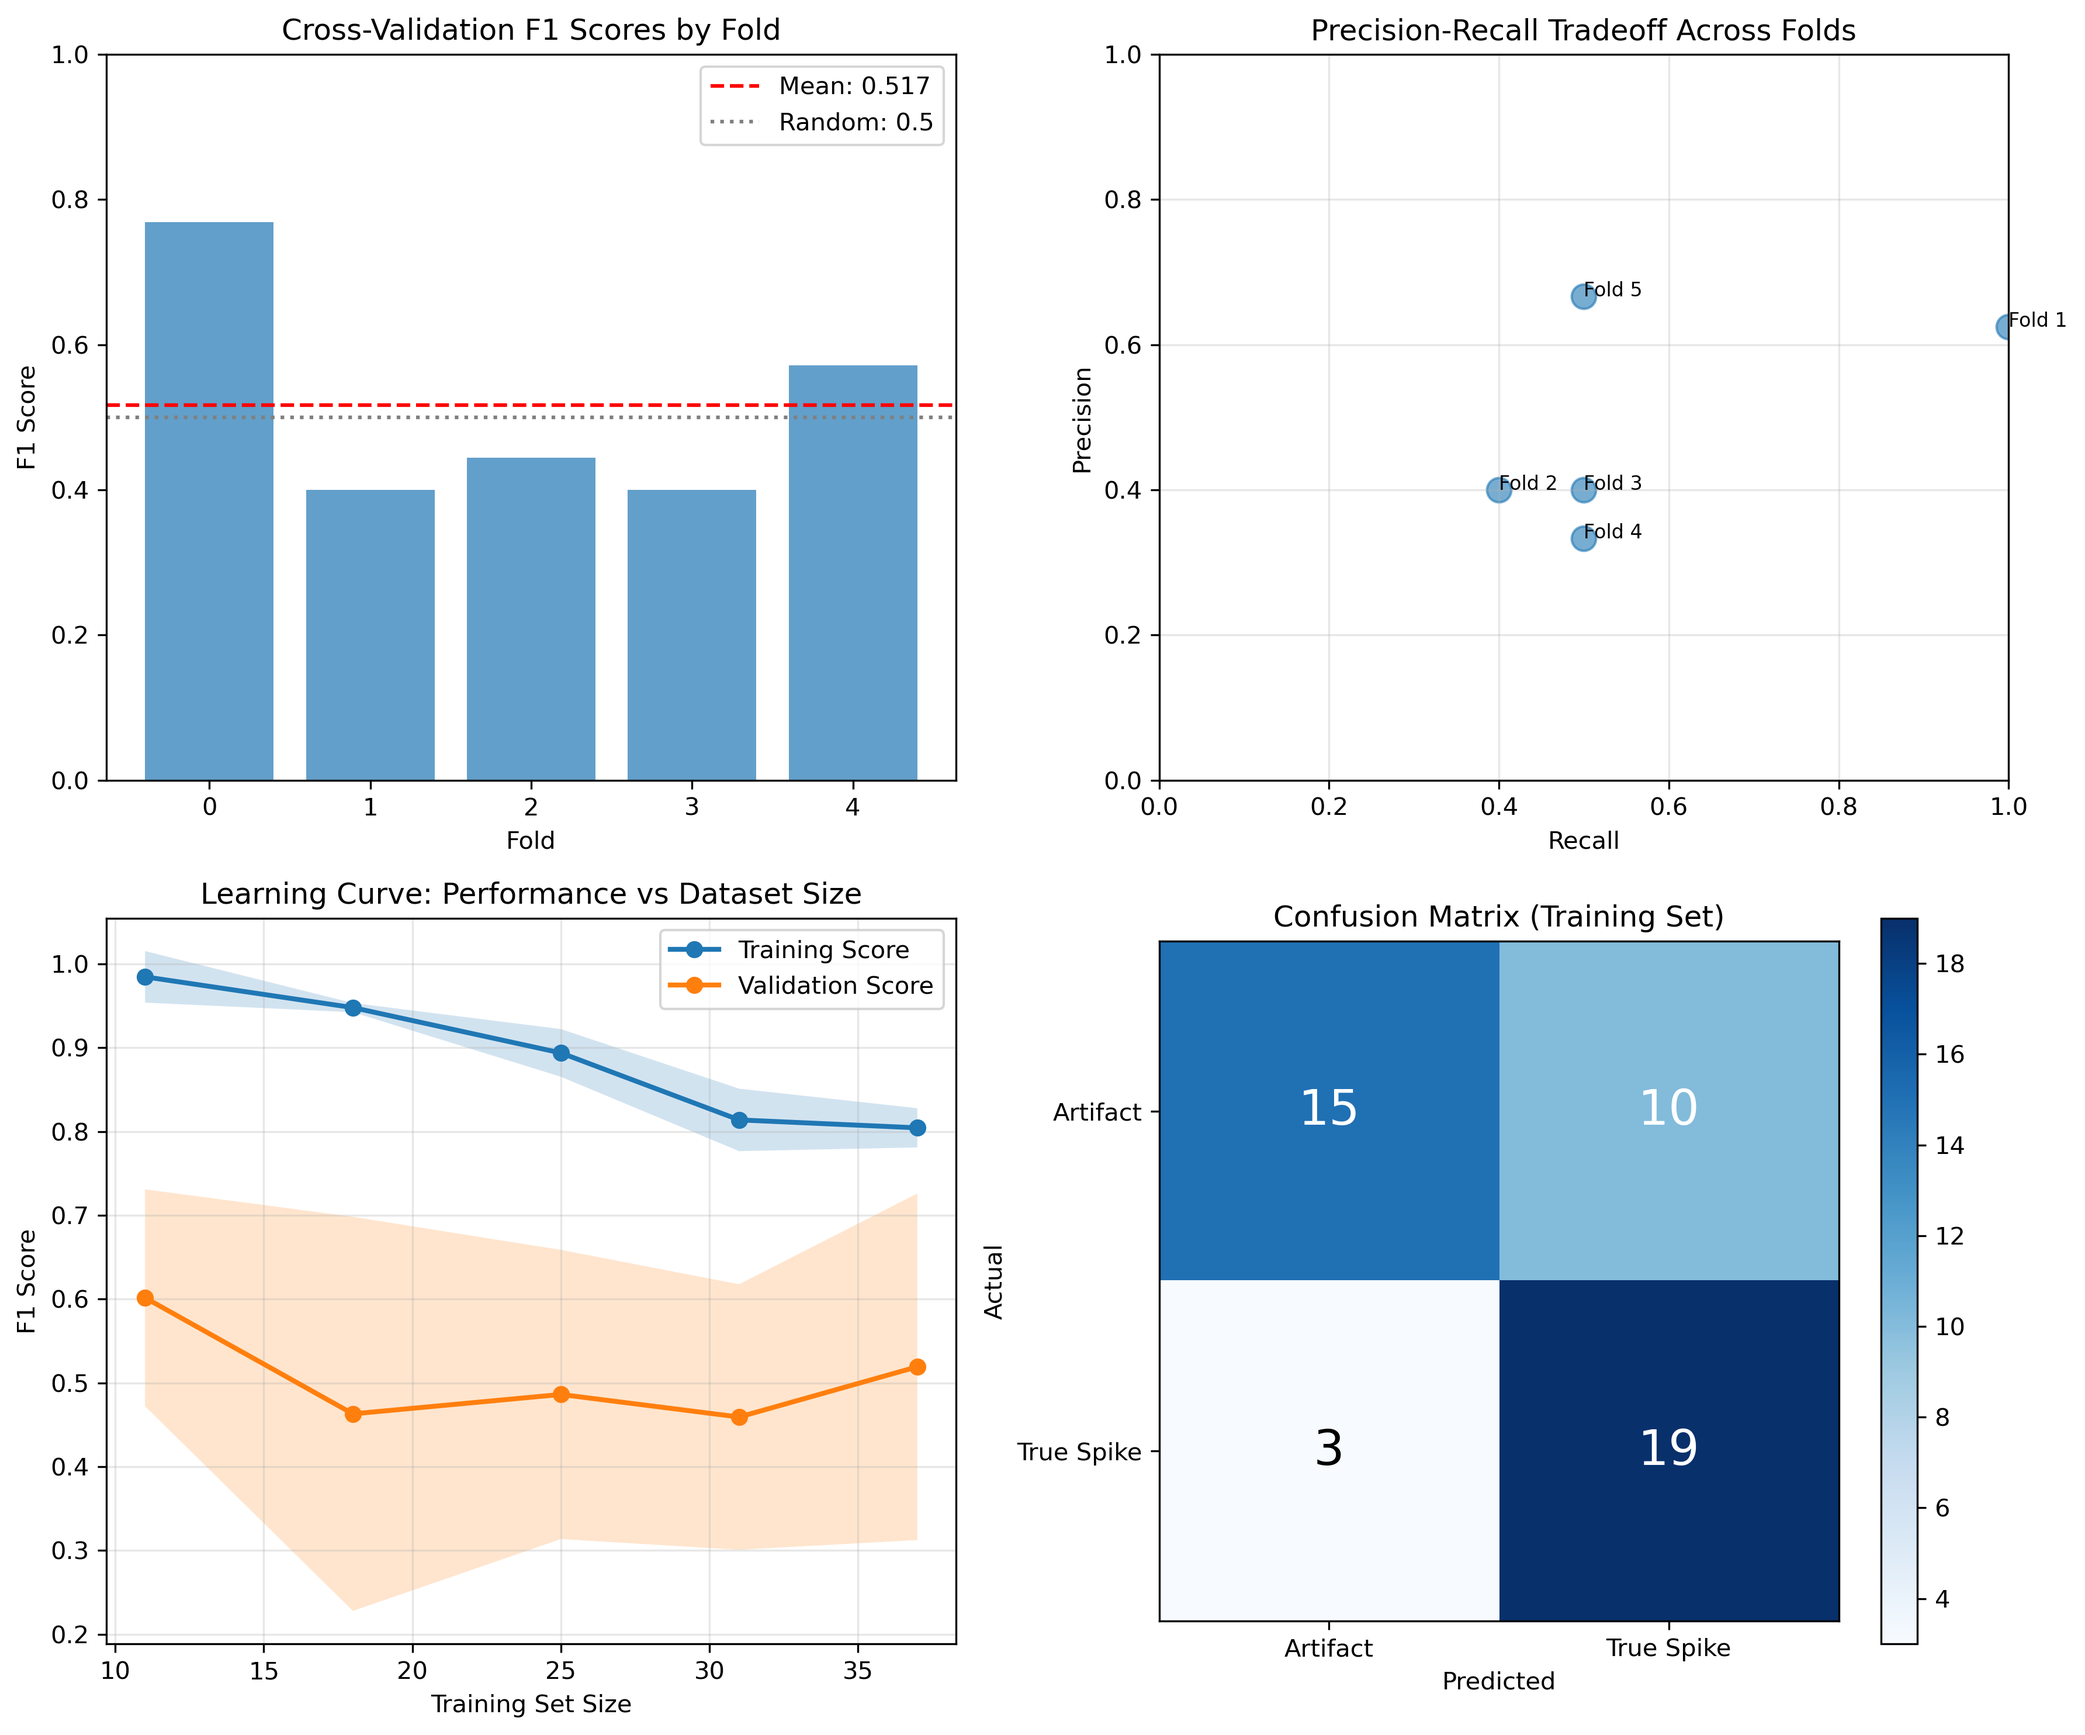
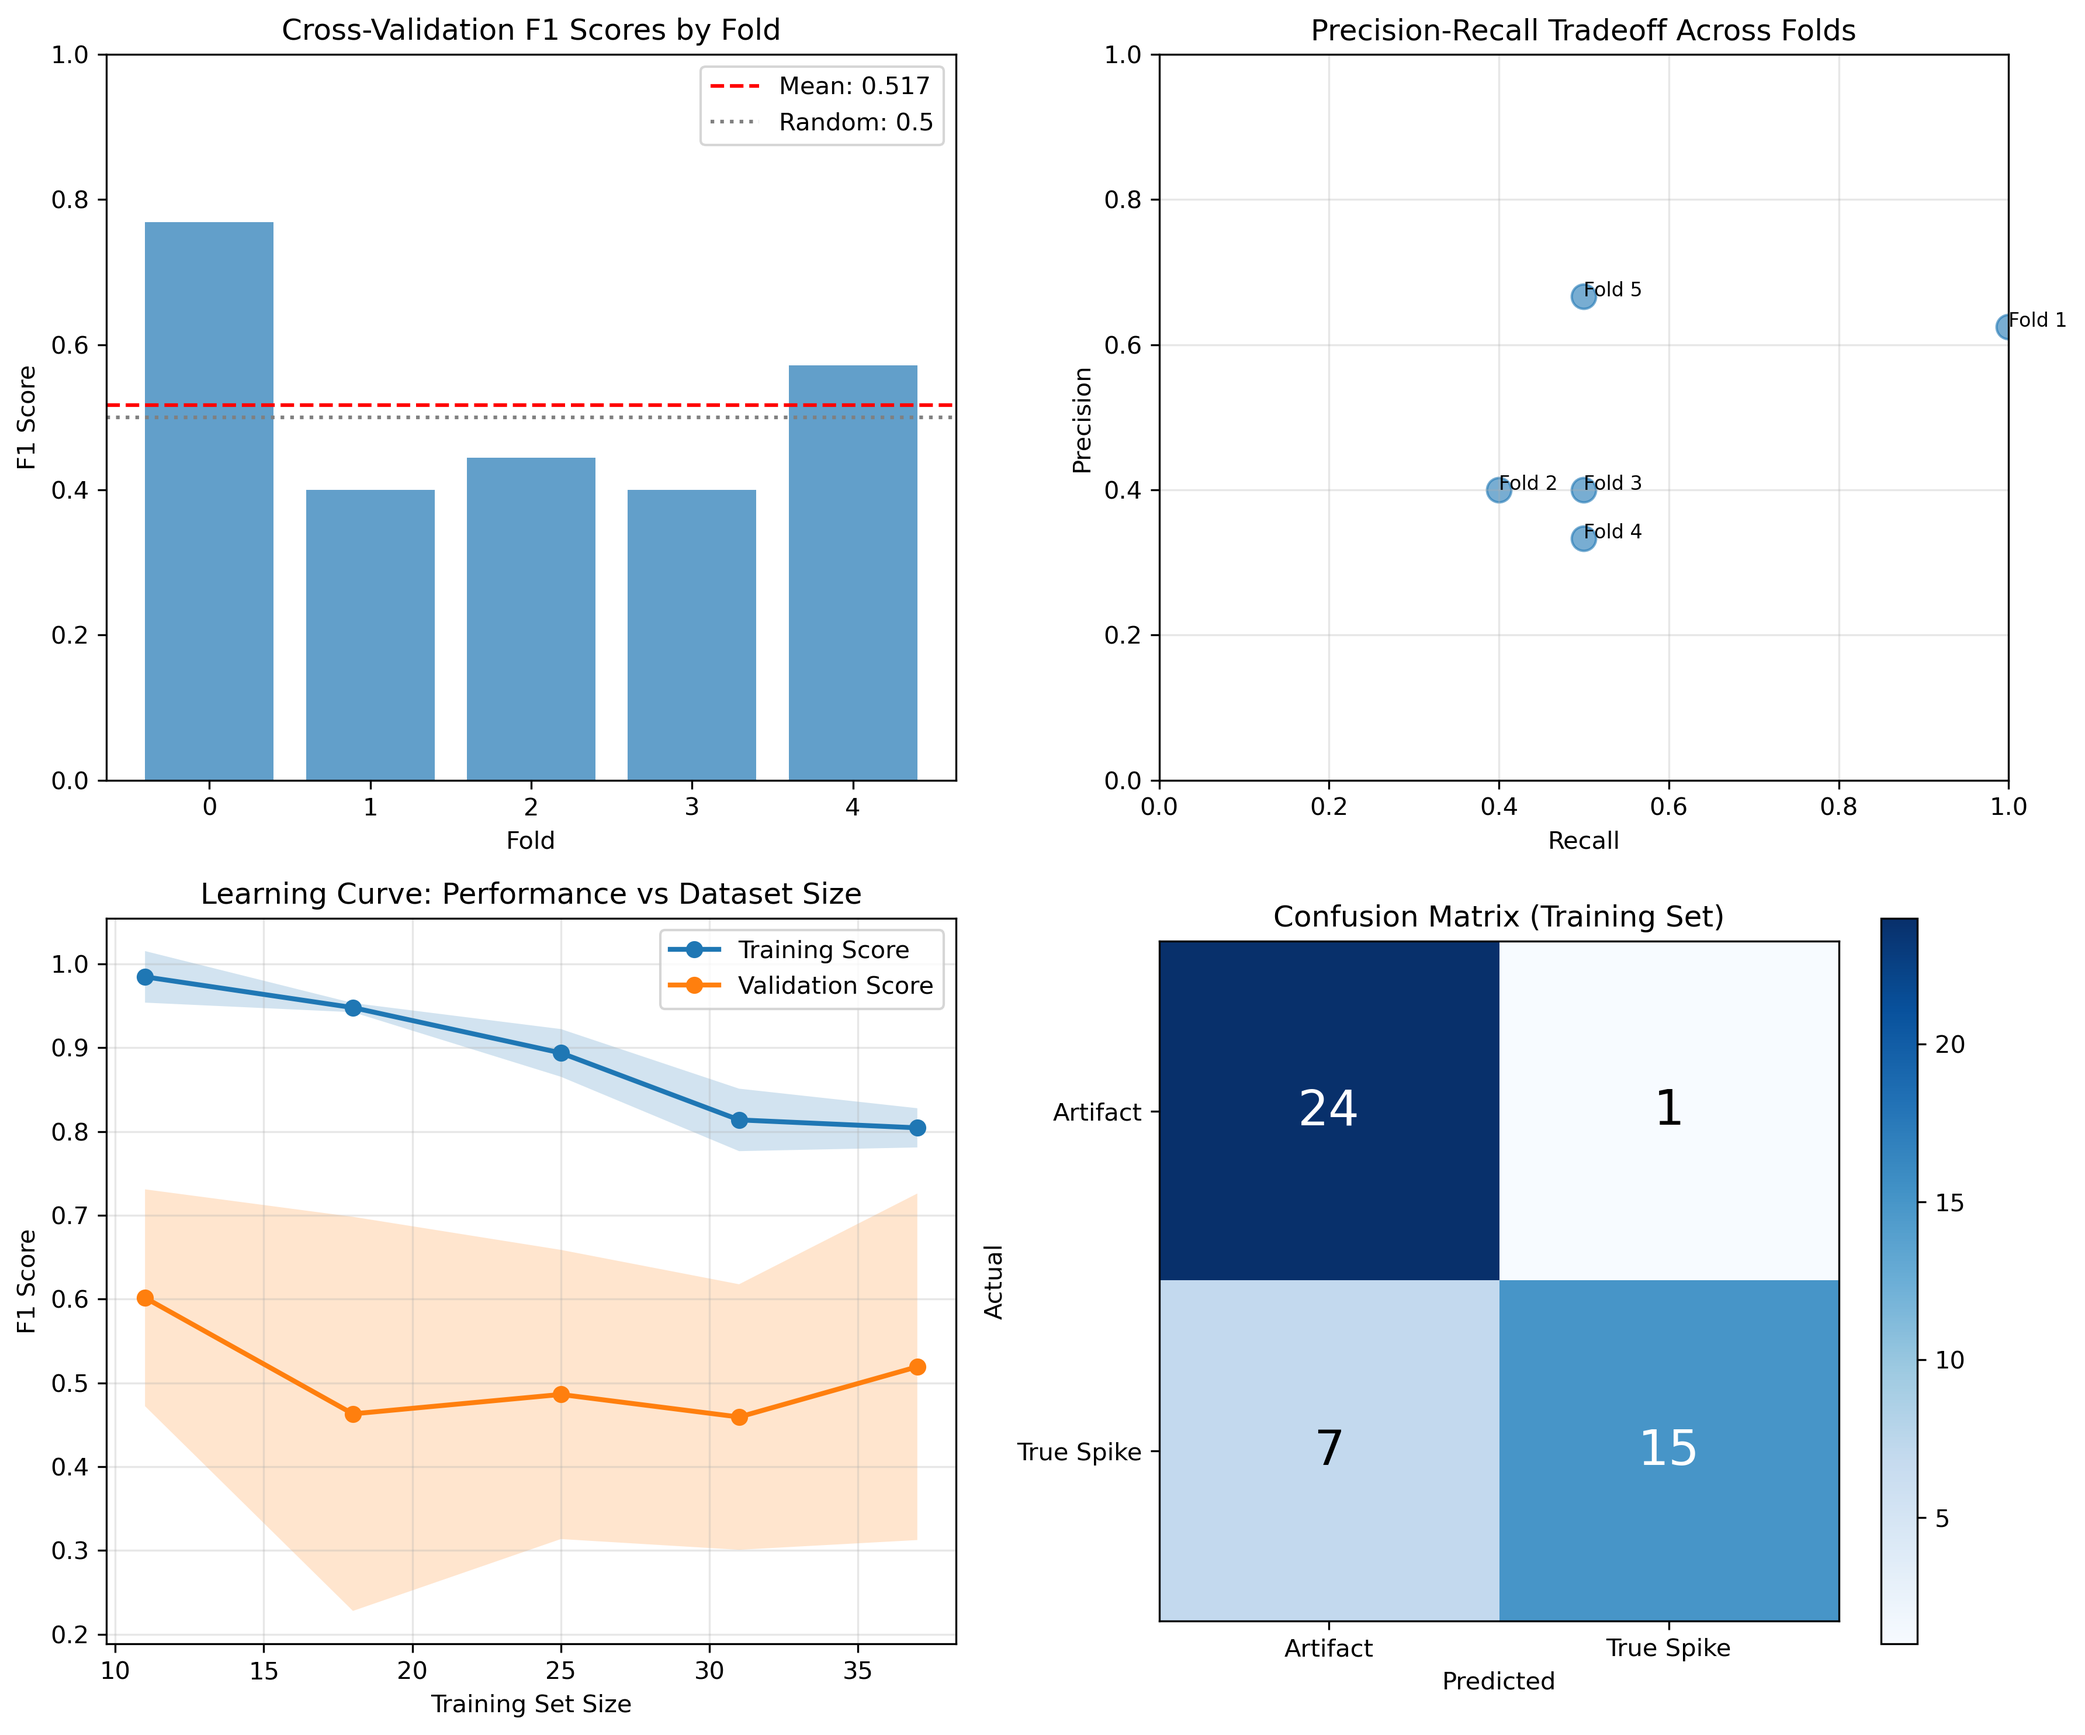
tuned model to favor false negatives

Changed region(s): [[0.5289, 0.527, 0.9022, 0.9609]]

diff --git a/classifier.py b/classifier.py
@@ -369,8 +369,9 @@ class SpikeClassifier:
         
         test_features_norm = (test_features - self.mean) / self.std
         
-        predictions = self.model.predict(test_features_norm)  
+        
         probabilities = self.model.predict_proba(test_features_norm)[:, 1]
+        predictions = (probabilities >= 0.6).astype(int)[:, 1]
         logger.info("="*50)
         logger.info("MODEL EVALUATION")
         logger.info("="*50)
